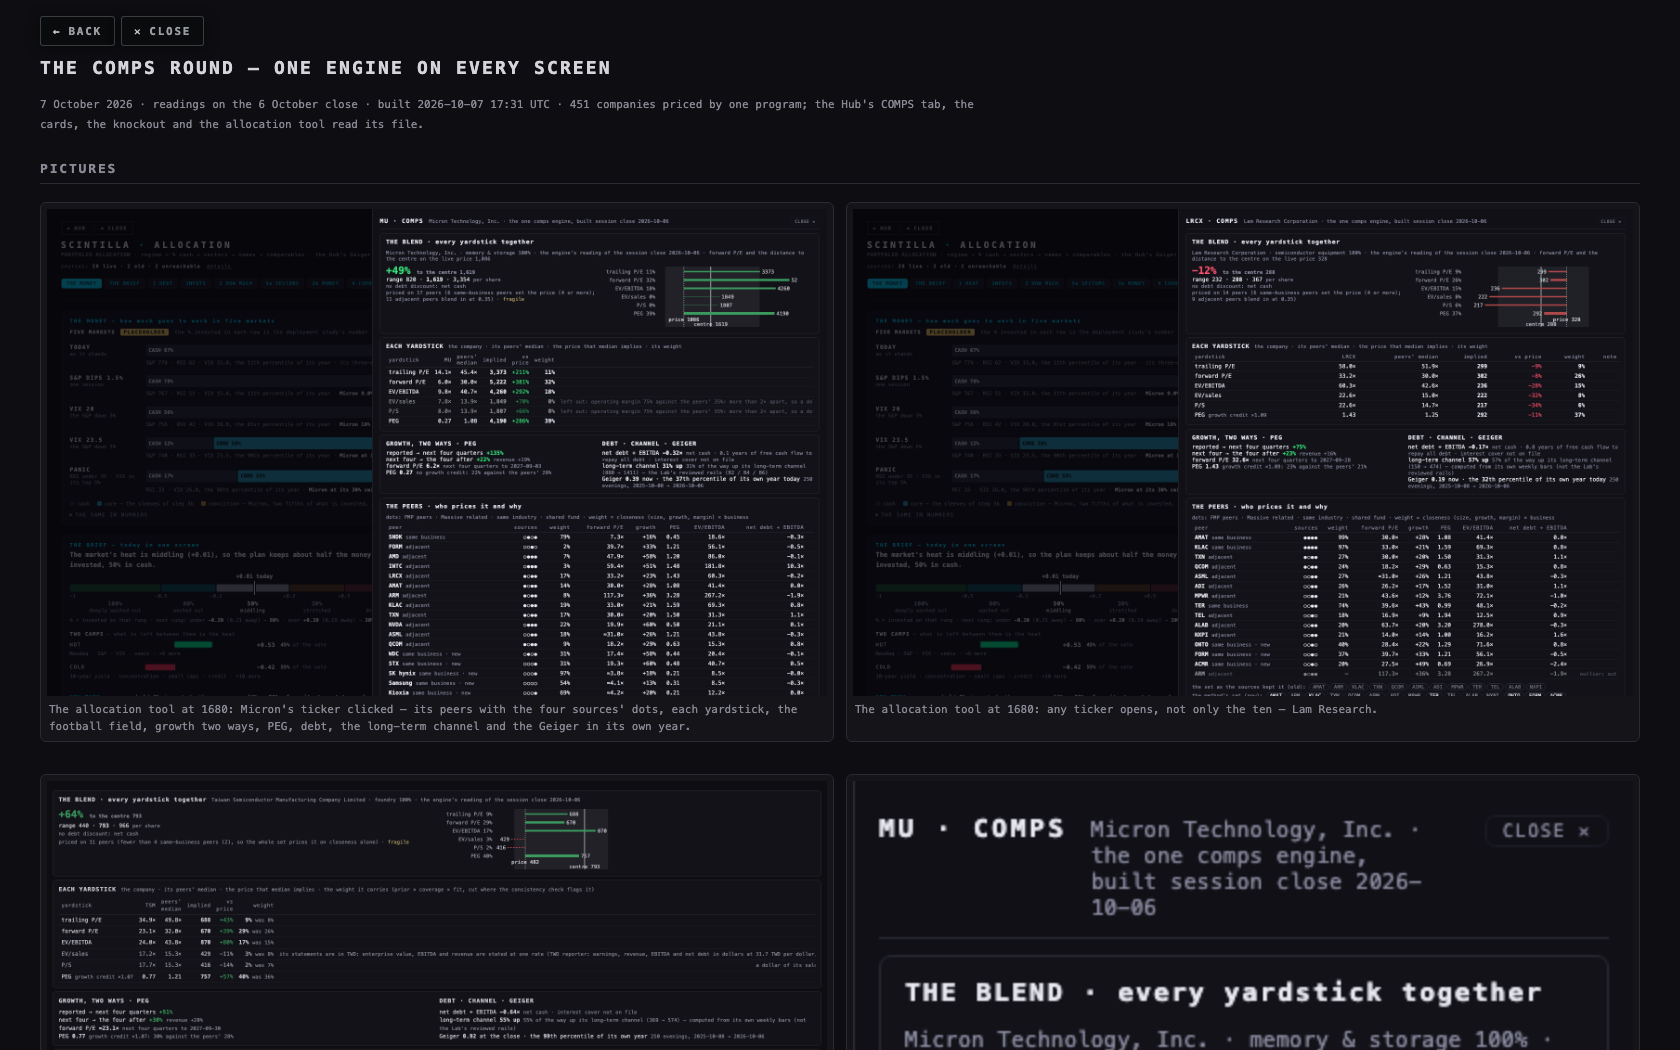
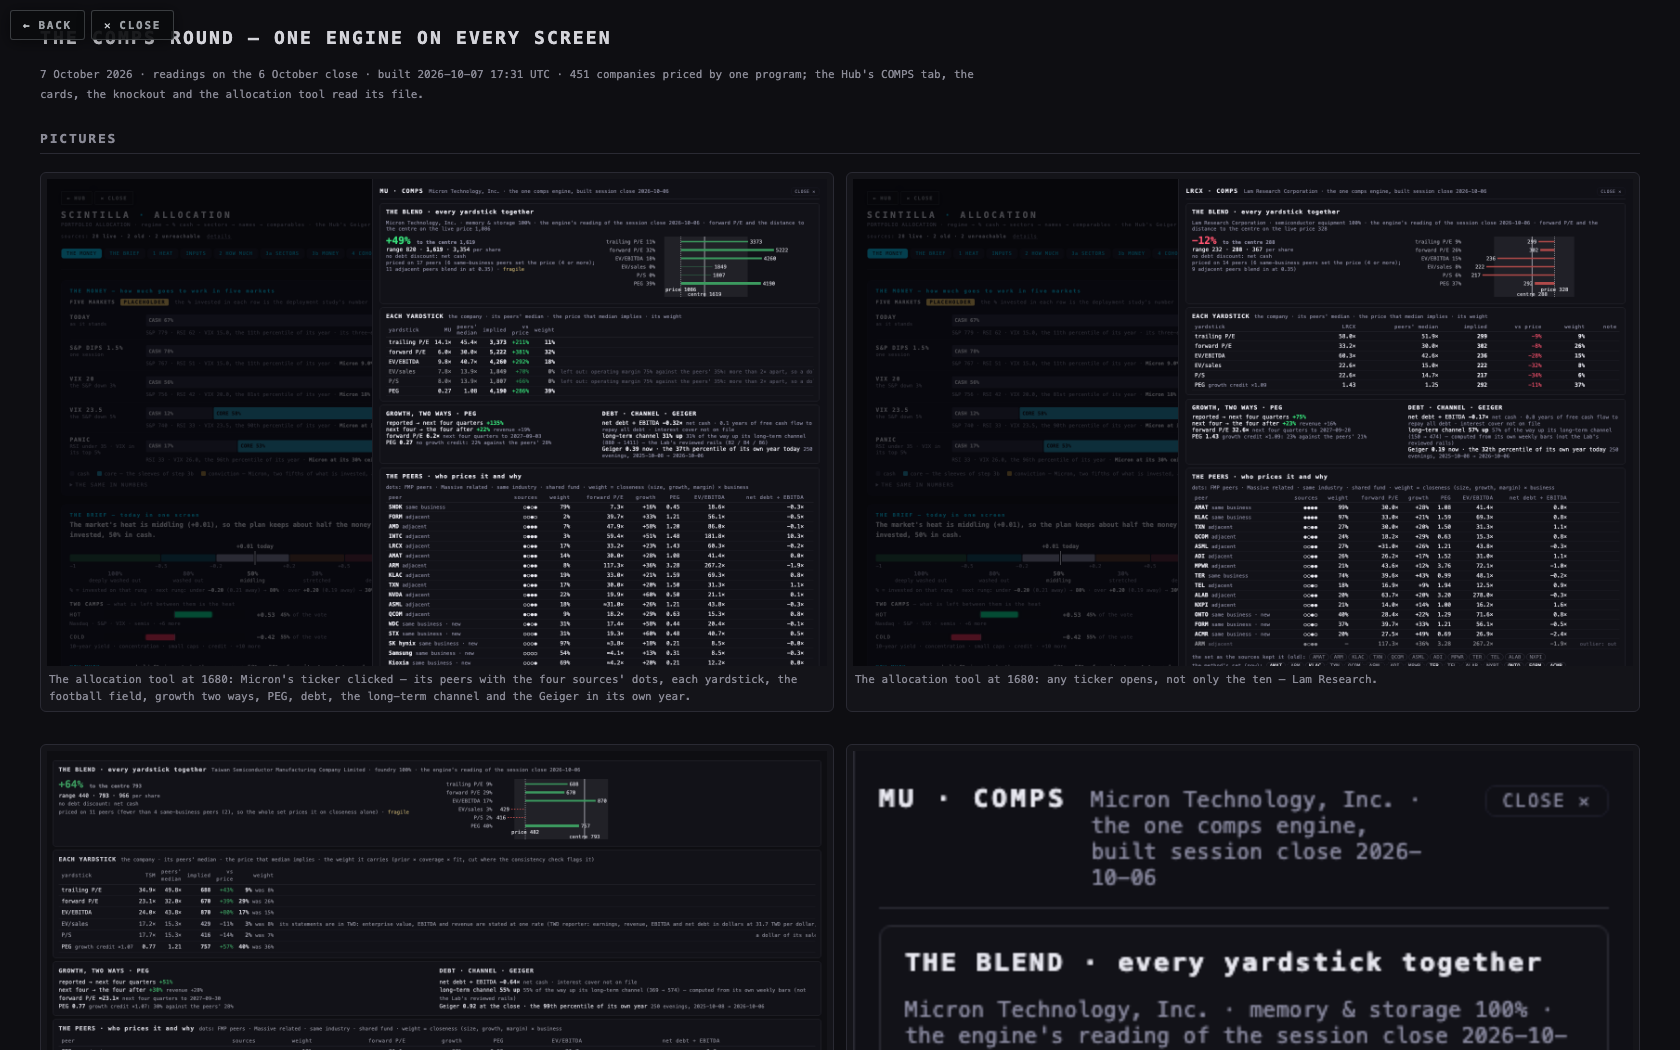
CP4 · after the merge of release/hub-20261007: the live-switch line kept exactly as the release wrote it (the in-browser fallback on CP3's configuration, the artifact on CP4's); the page carries its own slot for the BACK / CLOSE pair; pictures retaken

diff --git a/deliverables/20261007/comps-engine/COMPS-ENGINE.html b/deliverables/20261007/comps-engine/COMPS-ENGINE.html
@@ -33,7 +33,7 @@
 })();
 </script>
 <!-- /scnav -->
-<h1>THE COMPS ROUND — ONE ENGINE ON EVERY SCREEN</h1><p><small>7 October 2026 · readings on the 6 October close · built 2026-10-07 17:31 UTC · 451 companies priced by one program; the Hub's COMPS tab, the cards, the knockout and the allocation tool read its file.</small></p>
+<div data-scnav-slot></div><h1>THE COMPS ROUND — ONE ENGINE ON EVERY SCREEN</h1><p><small>7 October 2026 · readings on the 6 October close · built 2026-10-07 17:31 UTC · 451 companies priced by one program; the Hub's COMPS tab, the cards, the knockout and the allocation tool read its file.</small></p>
 <h2>PICTURES</h2><div class="grid"><figure><img src="shots/tool-1680-mu.png" alt="The allocation tool at 1680: Micron's ticker clicked — its peers with the four sources' dots, each yardstick, the football field, growth two ways, PEG, debt, the long-term channel and the Geiger in its own year." loading="lazy"><figcaption>The allocation tool at 1680: Micron's ticker clicked — its peers with the four sources' dots, each yardstick, the football field, growth two ways, PEG, debt, the long-term channel and the Geiger in its own year.</figcaption></figure><figure><img src="shots/tool-1680-lrcx.png" alt="The allocation tool at 1680: any ticker opens, not only the ten — Lam Research." loading="lazy"><figcaption>The allocation tool at 1680: any ticker opens, not only the ten — Lam Research.</figcaption></figure><figure><img src="shots/hub-tab-1680-tsm.png" alt="The Hub's COMPS tab at 1680, reading the engine's file for TSMC: every figure in dollars at one rate, per ADR; the EV rows no longer sit far from the rest." loading="lazy"><figcaption>The Hub's COMPS tab at 1680, reading the engine's file for TSMC: every figure in dollars at one rate, per ADR; the EV rows no longer sit far from the rest.</figcaption></figure><figure><img src="shots/tool-390-mu.png" alt="The allocation tool on a phone (390): Micron's reading." loading="lazy"><figcaption>The allocation tool on a phone (390): Micron's reading.</figcaption></figure><figure><img src="shots/page-1680.png" alt="This page at 1680." loading="lazy"><figcaption>This page at 1680.</figcaption></figure><figure><img src="shots/page-390.png" alt="This page on a phone (390)." loading="lazy"><figcaption>This page on a phone (390).</figcaption></figure></div>
 <h2>THE TWELVE NAMES, BEFORE → AFTER</h2><p>“Before, live” is what Alan read on the live Hub at 12:50 ET today where he read it; for the other names it is the engine's reproduction of the live Hub's own rule (every switch off, the fiscal-year forward basis, the sources' own set), marked *. “This morning” is the one-basis reading with the hand-written peer sets. “Now” is this round: the method's peers, the reassessed football field, the consistency check and the debt discount.</p>
 <div class="scroll"><table><thead><tr><th>name</th><th>close</th><th>before, live Hub</th><th>this morning</th><th>now · to the centre</th><th>forward P/E · growth · PEG</th><th>what moved it</th></tr></thead><tbody><tr><td><b>GOOGL</b><br><small>Alphabet Inc.</small></td><td>348</td><td>+31%</td><td>−5%</td><td class="dn"><b>−21%</b><br><small>centre 274 · 210–432</small></td><td>24.2×<br><small>growth +15% · PEG 1.58</small></td><td><small>the method's advertising peers are Meta and a tail of far smaller names; Meta alone carries the reading (fragile), the trailing year carries one-off gains and is cut, and the growth yardstick prices it below the others — so the blend sits under the price.</small></td></tr><tr><td><b>AMZN</b><br><small>Amazon.com, Inc.</small></td><td>256</td><td>+63%</td><td>+25%</td><td class="up"><b>+18%</b><br><small>centre 303 · 217–467 · before debt +25%</small></td><td>25.7×<br><small>growth +31% · PEG 0.83</small></td><td><small>the Chinese retailers and the two other clouds price it; the sales multiples are cut (its margin is far from the stores'), the growth yardstick is cut for sitting far above the rest, and the debt discount takes a little off.</small></td></tr><tr><td><b>AVGO</b><br><small>Broadcom Inc.</small></td><td>376</td><td>+5.6%</td><td>+94%</td><td class="up"><b>+136%</b><br><small>centre 886 · 519–1,423</small></td><td>21.6×<br><small>growth +55% · PEG 0.54</small></td><td><small>the method keeps Palantir and the equipment makers' neighbours in its set; every yardstick but PEG sits far below the growth yardstick, which is capped and cut yet still carries the centre — read it as the market's price for growth, not a target.</small></td></tr><tr><td><b>NVDA</b><br><small>NVIDIA Corporation</small></td><td>239</td><td>+17%</td><td>+136%</td><td class="up"><b>+211%</b><br><small>centre 745 · 446–955</small></td><td>19.9×<br><small>growth +60% · PEG 0.50</small></td><td><small>only three same-business peers, so the whole chip set prices it on closeness; the growth yardstick and EV/EBITDA at the small designers' multiples lift it — the same warning as this morning: their price for growth, not a target.</small></td></tr><tr><td><b>TSM</b><br><small>Taiwan Semiconductor Manufacturing Company Limited</small></td><td>482</td><td>centre 269 (below the price)</td><td>+9%</td><td class="up"><b>+64%</b><br><small>centre 793 · 440–966</small></td><td>≈23.1×<br><small>growth +30% · PEG 0.77</small></td><td><small>the two foundries are too few, so the chip set prices it on closeness, all figures in dollars at one rate (31.7) per ADR; the sales multiples are cut for its 56% margin — the EV rows no longer sit far from the rest.</small></td></tr><tr><td><b>VST</b><br><small>Vistra Corp.</small></td><td>161</td><td>+14%*</td><td>+13%</td><td class="up"><b>+1%</b><br><small>centre 161 · 128–193 · before debt +9%</small></td><td>15.6×<br><small>growth +20% · PEG 0.78</small></td><td><small>priced on the four independent power producers with the regulated utilities blending in at 0.35; the debt discount (3.0× EBITDA, heavy) takes the upside to about nothing.</small></td></tr><tr><td><b>MU</b><br><small>Micron Technology, Inc.</small></td><td>1,046</td><td>+274% (4,022)</td><td>+13%</td><td class="up"><b>+55%</b><br><small>centre 1,619 · 820–3,354</small></td><td>6.0×<br><small>growth +22% · PEG 0.27</small></td><td><small>the memory line prices it — SanDisk, Western Digital, Seagate, SK hynix, Samsung, Kioxia — with the chip names blending in; the growth yardstick (its PEG) carries the centre up from this morning's +13%.</small></td></tr><tr><td><b>ORCL</b><br><small>Oracle Corporation</small></td><td>145</td><td>+91%*</td><td>+68%</td><td class="up"><b>+41%</b><br><small>centre 204 · 130–405 · before debt +53%</small></td><td>17.0×<br><small>growth +41% · PEG 0.42</small></td><td><small>Microsoft and Amazon are its only same-business peers and the software names are capped at half their weight; the growth yardstick is cut; the debt discount of 8% (3.2× EBITDA, free cash flow cannot repay) is explicit.</small></td></tr><tr><td><b>DLR</b><br><small>Digital Realty Trust, Inc.</small></td><td>185</td><td>−25%*</td><td>+13%</td><td class="dn"><b>−3%</b><br><small>centre 179 · 120–198 · before debt +9%</small></td><td>75.7×<br><small>growth +26% · PEG 2.94</small></td><td><small>a property trust: P/FFO carries most of the weight; the earnings yardsticks are cut; the debt discount (4.8×, very heavy) takes the centre under the price.</small></td></tr><tr><td><b>EQIX</b><br><small>Equinix, Inc.</small></td><td>1,047</td><td>−35%*</td><td>−19%</td><td class="dn"><b>−29%</b><br><small>centre 745 · 658–830 · before debt −20%</small></td><td>58.0×<br><small>growth +14% · PEG 4.12</small></td><td><small>the same: P/FFO and EV/EBITDA lead, the debt discount (5.0×) is 6% plus the free-cash-flow years; the reading stays below the price.</small></td></tr><tr><td><b>SNDK</b><br><small>Sandisk Corporation</small></td><td>1,660</td><td>+160%*</td><td>−40%</td><td class="dn"><b>−18%</b><br><small>centre 1,367 · 900–3,676</small></td><td>7.3×<br><small>growth +16% · PEG 0.45</small></td><td><small>the memory line prices it; its forward P/E sits far above where the foreign makers' multiples put it and is cut; the reading stays below the price, less so than this morning.</small></td></tr><tr><td><b>WDC</b><br><small>Western Digital Corporation</small></td><td>411</td><td>+30%*</td><td>−31%</td><td class="up"><b>+11%</b><br><small>centre 455 · 246–1,006</small></td><td>17.4×<br><small>growth +58% · PEG 0.44</small></td><td><small>the memory line prices it with the hardware names blending in; the growth yardstick (57% growth into the following year, capped at 40 for the line) carries it back above the price.</small></td></tr></tbody></table></div>
